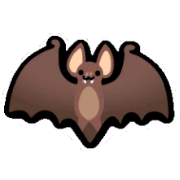
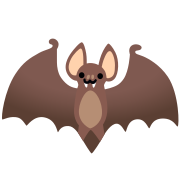
Add: New Sprites for creatures

Changed region(s): [[0.0, 0.1944, 1.0, 0.8611]]

diff --git a/src/cegepst/game/entities/BuyStation.java b/src/cegepst/game/entities/BuyStation.java
@@ -25,17 +25,18 @@ public class BuyStation extends MovableEntity implements TriggerAreaListener, It
     private int id;
 
     public BuyStation(int x, int y, int id) {
-        this.id = id;
-        item = new Creature(id, x - 6, y - 30);
-        hasItem = true;
-        setDimension(32, 32);
+        setDimension(70, 44);
         teleport(x, y);
         initializeSound();
         CollidableRepository.getInstance().registerEntity(this);
         EventSystem.getInstance().addTriggerAreaListener(this);
         EventSystem.getInstance().addItemBuyListener(this);
 
-        image = SpriteHandler.getFrame(Sprite.SHOP_SPRITE_SHEET.getBufferedImage(), 448, 416, 32, 32);
+
+        this.id = id;
+        item = new Creature(id, x + ((width - Creature.WIDTH) / 2), y - (Creature.HEIGHT / 2));
+        hasItem = true;
+        image = SpriteHandler.resizeImage(Sprite.SAP_TILE_SPRITE.getImage(), Image.SCALE_SMOOTH, width, height);
     }
 
     @Override

diff --git a/src/cegepst/game/Initializer.java b/src/cegepst/game/Initializer.java
@@ -19,8 +19,8 @@ public class Initializer {
     public ArrayList<TriggerArea> getTriggerAreasForBuyStations(ArrayList<BuyStation> buyStations) {
         ArrayList<TriggerArea> triggerAreas = new ArrayList<>();
         for (BuyStation buyStation : buyStations) {
-            triggerAreas.add(new TriggerArea(buyStation.getId(), buyStation.getX() - 10,
-                    buyStation.getY() + buyStation.getHeight() + 10, 50, 50));
+            triggerAreas.add(new TriggerArea(buyStation.getId(), buyStation.getX(),
+                    buyStation.getY() + buyStation.getHeight() + 10, buyStation.getWidth(), 50));
         }
         return triggerAreas;
     }

diff --git a/src/cegepst/game/entities/Creature.java b/src/cegepst/game/entities/Creature.java
@@ -2,14 +2,13 @@ package cegepst.game.entities;
 
 import cegepst.engine.Buffer;
 import cegepst.engine.helpers.RandomHandler;
-import cegepst.game.resources.Sprite;
 
 import java.awt.*;
 
 public class Creature extends Item {
 
-    private static final int WIDTH = 44;
-    private static final int HEIGHT = 44;
+    public static final int WIDTH = 60;
+    public static final int HEIGHT = 60;
 
     private CreatureType creatureType;
     private Image sprite;

diff --git a/src/cegepst/game/resources/Sprite.java b/src/cegepst/game/resources/Sprite.java
@@ -10,6 +10,7 @@ public enum Sprite {
     MAP_1("./images/demo.png"),
     PLAYER_SPRITE_SHEET("./images/player.png"),
     SHOP_SPRITE_SHEET("./images/shop.png"),
+    SAP_TILE_SPRITE("./images/sap/tile.png"),
     SAP_ANT_SPRITE("./images/sap/ant.png"),
     SAP_BAT_SPRITE("./images/sap/bat.png"),
     SAP_DOG_SPRITE("./images/sap/dog.png"),
